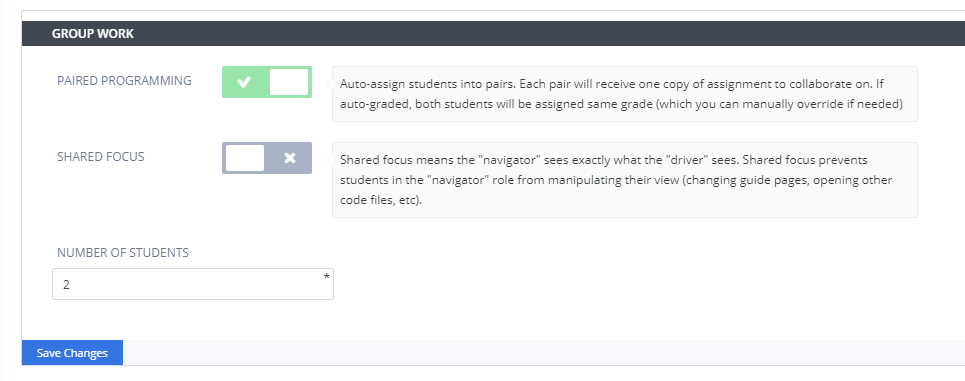
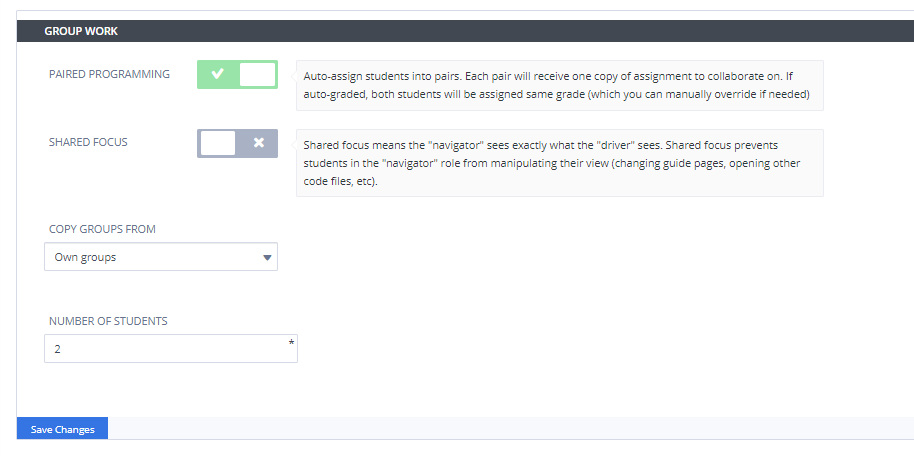
changelog #14276 (#184)

diff --git a/source/instructors/setupcourses/assignment-settings/groupwork.rst b/source/instructors/setupcourses/assignment-settings/groupwork.rst
@@ -16,6 +16,10 @@ The Paired Programming setting is enabled to allow groups of students to work to
  
 - **Shared Focus** - Enable to apply Shared Focus.  Shared focus means the "navigator" sees exactly what the "driver" sees. This prevents a student in the "navigator" role from manipulating the view of the driver (changing guide pages, opening other code files, etc) and as the driver moves around in the assignment, the navigator view will change to follow.
 
+- **Copy Groups From** - Allows you to use Pair Programming groups already set up in other assignments. As other assignments are enabled for Pair Programming, each of those assignments will show in the drop down.
+
+.. Note:: If an assignment has :ref:`Copy Workspace<prerequisite>` configured and both the 'to be copied from' and 'to be copied to' assignments are pair programming assignments, groups will be automatically copied.
+
 - **Number of Students** - Set the number of students to work together as a group (max 5). If the total number of students is greater than an equal division for the groups, extra groups will be created
 
 .. Warning:: Pair Programming should not be used for :ref:`Crunch<crunch>`, :ref:`Flode<flode>`, :ref:`Jeroo<jeroo>`, :ref:`Scratch<scratch>`, :ref:`Pencil Code<pencilcode>`, :ref:`Pyret<pyret>`, :ref:`Processing/p5<processing-and-p5>` or assignments using :ref:`virtual machine <virtualmachine>` assignments. 

diff --git a/source/instructors/getstarted/support/changelog.rst b/source/instructors/getstarted/support/changelog.rst
@@ -15,6 +15,7 @@ We do not report small bug fixes or issues that affect individual users, who we 
 
 **October 2022**
 
+- `[F] [25th]`: Add feature to copy :ref:`Pair Programming<group-work>` groups between assignments
 - `[F] [ 4th]`: Add ability to :ref:`freeze code <freezecode>` within code files that students cannot change
 
 **September 2022**
